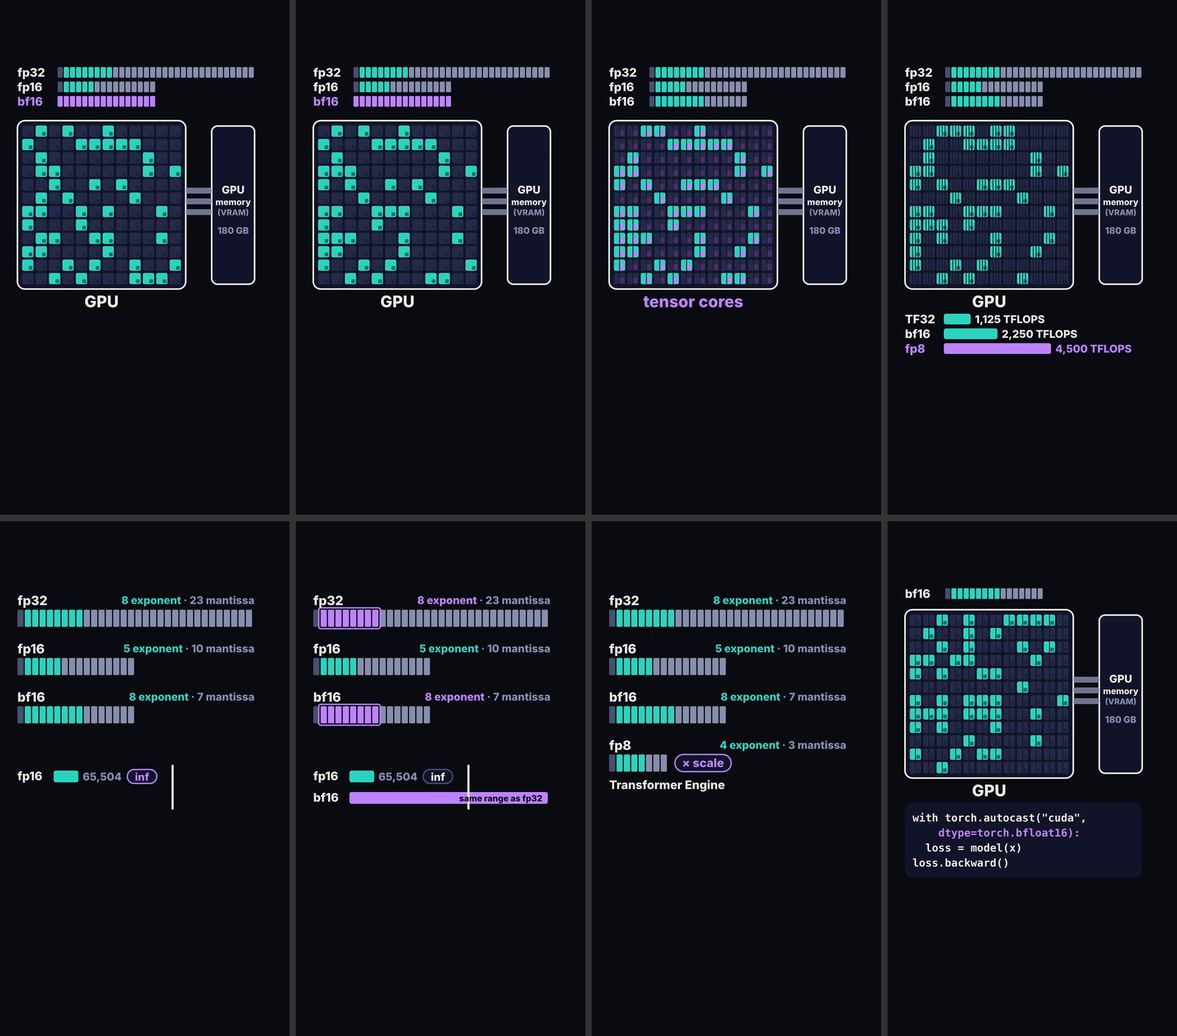
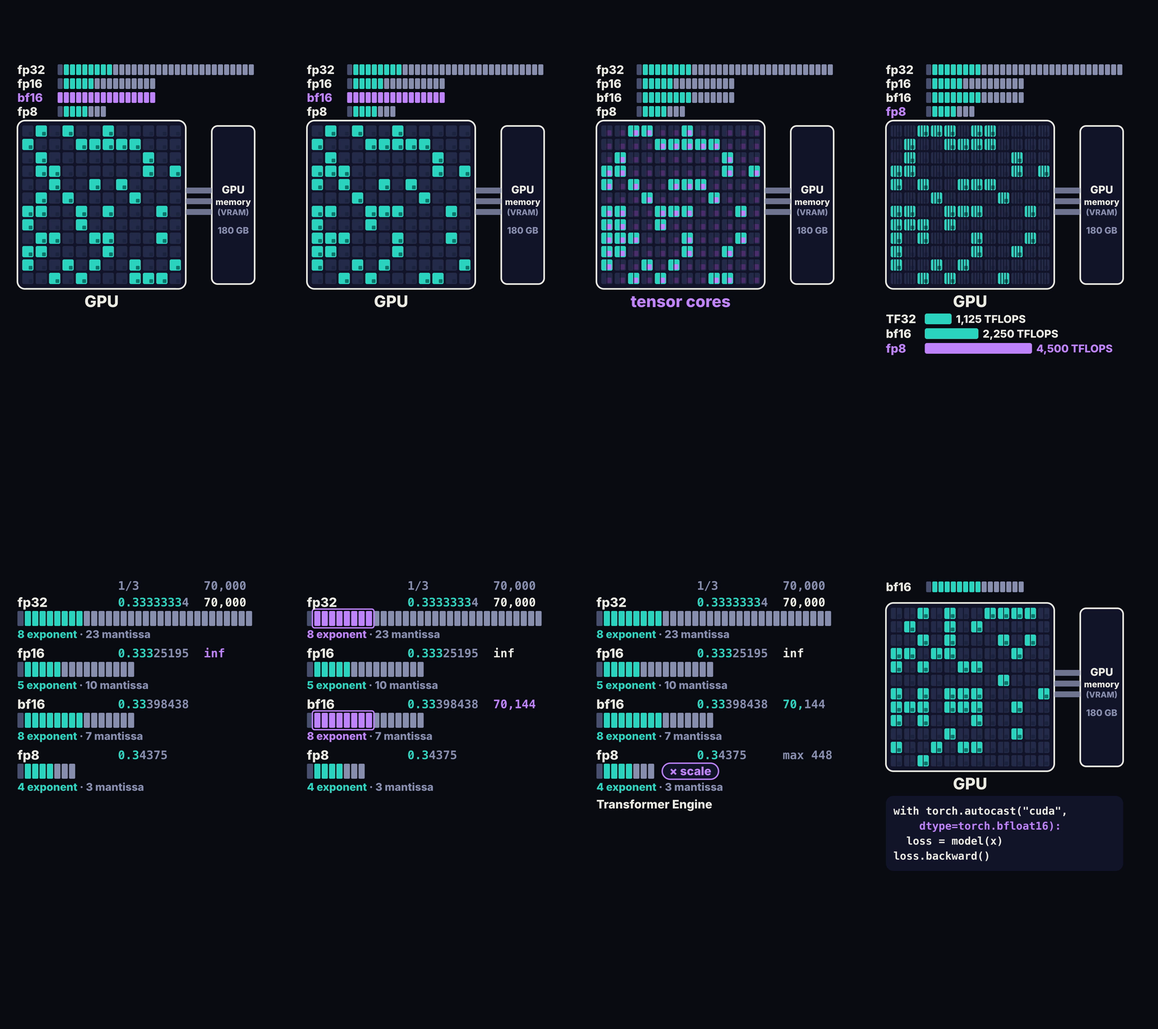
016 ep04: fp8 row from frame 0, value table (1/3, 70,000) replaces range bars

Changed region(s): [[0.0, 0.0, 0.9926, 1.0], [0.0, 0.5625, 0.2171, 0.7812]]

diff --git a/videos/016-understanding-the-gpu/ep04-floating-point-precision/_kit/ep.js b/videos/016-understanding-the-gpu/ep04-floating-point-precision/_kit/ep.js
@@ -7,18 +7,19 @@
 //   bit rows   fp32 / fp16 / bf16 / fp8, one box per bit, to scale (ledger:
 //              1|8|23, 1|5|10, 1|8|7, 1|4|3). Fields: sign --muted, exponent
 //              teal, mantissa --dim. Two layouts, lerped by `view`:
-//                view 0 (chip view)  small rows in the top slot, y 250–398,
-//                                    label left, boxes x 215–950
-//                view 1 (bits view)  big rows over the whole stage, y 268–934,
-//                                    label above each row with its field
-//                                    counts right ("8 exponent · 23 mantissa")
+//                view 0 (chip view)  four small rows, y 240–436
+//                view 1 (bits view)  big rows over the whole stage, y 240–1042:
+//                                    label above each row, field counts under
+//                                    it ("8 exponent · 23 mantissa")
 //              `close` lifts bf16 into the first small slot (the end frame).
 //   split      each core cell divided into 1, 2 or 4 numbers (0, 1, 2).
 //   ladder     the dense peak ladder in the bottom slot, chip view only:
 //              TF32 1,125 / bf16 2,250 / fp8 4,500 TFLOPS, bars to scale.
-//   range      bits view: fp16's range bar (ends at 65,504, then "inf") and
-//              bf16's (the whole width, "same range as fp32"), a marker
-//              sweeping right across both.
+//   values     bits view: what two real numbers become in each format, on each
+//              row's label line. 1/3 (precision): 0.33333334 / 0.33325195 /
+//              0.33398438 / 0.34375, the digits still right in teal. 70,000
+//              (range): 70,000 / inf / 70,144 / "max 448". Computed (round to
+//              nearest even); see storyboard "Facts".
 //   scale tag  bits view: "× scale" clipped onto the fp8 row, "Transformer
 //              Engine" under it.
 //
@@ -28,33 +29,38 @@
 //   o32 o16 ob16 o8  each row's opacity
 //   split 0..2       numbers per cell: 0 = 1, 1 = 2, 2 = 4 (dividers fade in)
 //   ladder 0..1      the ladder's opacity; rungs 0..3 how many bars have grown
-//   nl 0..1          the range bars' opacity; nl16, nlb 0..1 how far each bar has grown
-//   marker -1|0..1   the value marker along the bars (-1 off); 0.125 is fp16's 65,504; "inf" sits at x 475–585
-//   inf 0..1         fp16's "inf" tag
+//   colA 0..1        the 1/3 column (header and all four cells)
+//   big 0..1         the 70,000 column's header and fp32's cell
+//   inf 0..1         fp16's 70,000 cell, "inf"
+//   bigb 0..1        bf16's 70,000 cell, "70,144"
+//   big8 0..1        fp8's 70,000 cell, "max 448"
 //   same 0..1        outlines on fp32's and bf16's exponent fields
 //   scale 0..1       the fp8 scale tag
 // Hero names added (the chip's own still work: tc, pipe, chip, ...):
-//   "row:F"  a whole bit row      "exp:F"  its exponent field (+ fp32's when `same`, + bf16's bar)
-//   "man:F"  its mantissa field   "rung:F" a ladder rung        "inf"  fp16's overflow tag
+//   "row:F"  a whole bit row      "exp:F"  its exponent field (+ fp32's when `same`, + its 70,000 cell)
+//   "man:F"  its mantissa field (+ its 1/3 cell)                 "inf"  fp16's 70,000 cell
+//   "rung:F" a ladder rung (+ row F's label)
 //   "scale"  the fp8 scale tag    "code"   nothing here: the code card's own `lit` line is the hero
 (function () {
   const SC = window.SC, { PAL, lerp, node, label, show, clamp01 } = SC;
 
   Object.assign(SC.REST, {
     cpu: 0, queueO: 0, strip: 0,                  // the series CPU, queue and time strip: not in ep 4
-    view: 0, close: 0, o32: 1, o16: 1, ob16: 1, o8: 0, split: 0,
-    ladder: 0, rungs: 0, nl: 0, nl16: 0, nlb: 0, marker: -1, inf: 0, same: 0, scale: 0,
+    view: 0, close: 0, o32: 1, o16: 1, ob16: 1, o8: 1, split: 0,
+    ladder: 0, rungs: 0, colA: 0, big: 0, inf: 0, bigb: 0, big8: 0, same: 0, scale: 0,
   });
 
   const FMT = {                                   // ledger bit layouts: sign | exponent | mantissa
-    fp32: { f: [1, 8, 23], o: "o32", small: 250, big: 330 },
-    fp16: { f: [1, 5, 10], o: "o16", small: 304, big: 510 },
-    bf16: { f: [1, 8, 7], o: "ob16", small: 358, big: 690 },
-    fp8: { f: [1, 4, 3], o: "o8", small: 412, big: 870 },
+    // small/big: the boxes' top in each view. a/b: the 1/3 and 70,000 cells as [right digits, the rest].
+    fp32: { f: [1, 8, 23], o: "o32", small: 240, big: 360, a: ["0.3333333", "4"], b: ["70,000", ""], ob: "big" },
+    fp16: { f: [1, 5, 10], o: "o16", small: 292, big: 550, a: ["0.333", "25195"], b: ["", "inf"], ob: "inf" },
+    bf16: { f: [1, 8, 7], o: "ob16", small: 344, big: 740, a: ["0.33", "398438"], b: ["70,", "144"], ob: "bigb" },
+    fp8: { f: [1, 4, 3], o: "o8", small: 396, big: 930, a: ["0.3", "4375"], b: ["", "max 448"], ob: "big8" },
   };
   const NAMES = Object.keys(FMT);
   const SMALL = { x0: 215, pitch: 23, w: 19, h: 40, lab: 44 };
-  const BIG = { x0: 65, pitch: 27.5, w: 23, h: 64, lab: 48, spec: 40 };
+  const BIG = { x0: 65, pitch: 27.5, w: 23, h: 56, lab: 48, spec: 40, val: 44 };
+  const COL = { a: 440, b: 760, head: 240 };     // value columns (bits view): x of each, header top
   const CLOSE_Y = 250;                            // bf16's small slot in the end frame
   const LIFT = 120;                               // the chip layer's lift in the end frame
   const FIELD = [PAL.muted, PAL.data, PAL.dim];   // sign, exponent, mantissa
@@ -62,8 +68,6 @@
   // Ladder (chip view, bottom slot): bars to scale, 4,500 = 400 px.
   const LAD = { x: 210, max: 400, top: 1170, pitch: 55, h: 40,
                 rungs: [["TF32", 1125, "1,125"], ["bf16", 2250, "2,250"], ["fp8", 4500, "4,500"]] };
-  // Range bars (bits view): fp16 then bf16, x 200–940; 65,504 sits at 0.125 of a log scale to fp32's max.
-  const NL = { x0: 200, x1: 940, y16: 930, yb: 1010, h: 44, at16: 0.125 };
 
   function mount(root) {
     // the chip in its own layer: faded by `view`, lifted by `close`
@@ -97,7 +101,7 @@
       const field = (i) => (i < s ? 0 : i < s + e ? 1 : 2);
       const lab = label(root, name, { size: SMALL.lab });
       const spec = document.createElement("div");
-      spec.style.cssText = `position:absolute;left:${BIG.x0}px;width:${885}px;text-align:right;white-space:nowrap;` +
+      spec.style.cssText = `position:absolute;left:${BIG.x0}px;white-space:nowrap;` +
         `font-size:${BIG.spec}px;line-height:${Math.round(BIG.spec * 1.15)}px;`;
       const specE = document.createElement("span"), dot = document.createElement("span"), specM = document.createElement("span");
       specE.textContent = `${e} ${FIELD_NAME[1]}`; dot.textContent = " · "; specM.textContent = `${m} ${FIELD_NAME[2]}`;
@@ -105,7 +109,15 @@
       spec.appendChild(specE); spec.appendChild(dot); spec.appendChild(specM);
       root.appendChild(spec);
       const outline = node("rect", { rx: 8, fill: "none", "stroke-width": 5 }, svg);
-      rows[name] = { g, boxes, field, lab, spec, specE, specM, outline, n, s, e };
+      const cell = (x, [ok, rest]) => {             // monospace from the script (the CSS-class trap)
+        const el = label(root, "", { left: x, size: BIG.val });
+        const a = document.createElement("span"), b = document.createElement("span");
+        a.textContent = ok; b.textContent = rest; el.appendChild(a); el.appendChild(b);
+        [el, a, b].forEach((n) => { n.style.fontFamily = "monospace"; n.style.fontWeight = "700"; });
+        return { el, ok: a, rest: b };
+      };
+      const ca = cell(COL.a, FMT[name].a), cb = cell(COL.b, FMT[name].b);
+      rows[name] = { g, boxes, field, lab, spec, specE, specM, outline, n, s, e, ca, cb };
     });
 
     // ladder
@@ -118,27 +130,17 @@
       return { bar, lab, num, w: (LAD.max * v) / 4500 };
     });
 
-    // range bars
-    const nlG = node("g", {}, svg);
-    const bar16 = node("rect", { x: NL.x0, y: NL.y16, width: 0, height: NL.h, rx: 8, fill: PAL.data }, nlG);
-    const barB = node("rect", { x: NL.x0, y: NL.yb, width: 0, height: NL.h, rx: 8, fill: PAL.data }, nlG);
-    const lab16 = label(root, "fp16", { left: 65, top: NL.y16 - 5, size: 44 });
-    const labB = label(root, "bf16", { left: 65, top: NL.yb - 5, size: 44 });
-    const max16 = label(root, "65,504", { left: NL.x0 + NL.at16 * (NL.x1 - NL.x0) + 16, top: NL.y16, size: 40, color: PAL.dim });
-    // left-aligned so the marker (at 0.6 of the span) never crosses it
-    const sameLab = label(root, "same range as fp32", { left: NL.x0 + 16, top: NL.yb + 5, size: 32, color: PAL.bg });
-    const infG = node("g", {}, svg);
-    const infBox = node("rect", { x: 475, y: NL.y16 - 4, width: 110, height: NL.h + 8, rx: 26, fill: PAL.panel, "stroke-width": 5 }, infG);
-    const infLab = label(root, "inf", { left: 475, top: NL.y16 + 1, size: 40, width: 110 });
-    const markG = node("g", {}, svg);
-    const mark = node("rect", { x: 0, y: NL.y16 - 22, width: 8, height: NL.yb + NL.h - NL.y16 + 44, rx: 4, fill: PAL.ink }, markG);
+    // value column headers
+    const headA = label(root, "1/3", { left: COL.a, top: COL.head, size: BIG.val, color: PAL.dim });
+    const headB = label(root, "70,000", { left: COL.b, top: COL.head, size: BIG.val, color: PAL.dim });
+    [headA, headB].forEach((n) => { n.style.fontFamily = "monospace"; n.style.fontWeight = "700"; });
 
     // fp8 scale tag
     const tagG = node("g", {}, svg);
     const fp8End = BIG.x0 + 7 * BIG.pitch + BIG.w;
-    const tagBox = node("rect", { x: fp8End + 30, y: FMT.fp8.big, width: 210, height: BIG.h, rx: 32, fill: PAL.panel, "stroke-width": 5 }, tagG);
-    const tagLab = label(root, "× scale", { left: fp8End + 30, top: FMT.fp8.big + 6, size: 44, width: 210 });
-    const teLab = label(root, "Transformer Engine", { left: BIG.x0, top: FMT.fp8.big + BIG.h + 24, size: 44 });
+    const tagBox = node("rect", { x: fp8End + 30, y: FMT.fp8.big - 2, width: 210, height: BIG.h + 4, rx: 30, fill: PAL.panel, "stroke-width": 5 }, tagG);
+    const tagLab = label(root, "× scale", { left: fp8End + 30, top: FMT.fp8.big + 2, size: 44, width: 210 });
+    const teLab = label(root, "Transformer Engine", { left: BIG.x0, top: FMT.fp8.big + BIG.h + 70, size: 44 });
 
     function drawRows(S) {
       const v = clamp01(S.view), c = clamp01(S.close), hero = S.hero || "";
@@ -148,7 +150,7 @@
         const y = lerp(smallY, FMT[name].big, v), h = lerp(SMALL.h, BIG.h, v);
         const x0 = lerp(SMALL.x0, BIG.x0, v), p = lerp(SMALL.pitch, BIG.pitch, v), w = lerp(SMALL.w, BIG.w, v);
         const heroRow = hero === `row:${name}`, heroE = hero === `exp:${name}` || (hero === "exp:bf16" && name === "fp32" && S.same > 0.5);
-        const heroM = hero === `man:${name}`;
+        const heroM = hero === `man:${name}`, heroL = heroRow || hero === `rung:${name}`;
         show(r.g, o);
         r.boxes.forEach((b, i) => {
           b.setAttribute("x", (x0 + i * p).toFixed(1)); b.setAttribute("y", y.toFixed(1));
@@ -160,10 +162,10 @@
         const ls = lerp(SMALL.lab, BIG.lab, v);
         r.lab.style.fontSize = `${ls.toFixed(1)}px`; r.lab.style.lineHeight = `${Math.round(ls * 1.15)}px`;
         r.lab.style.left = "65px";
-        r.lab.style.top = `${lerp(y - 5, y - 62, v).toFixed(1)}px`;
-        r.lab.style.color = heroRow ? PAL.hero : PAL.ink;
+        r.lab.style.top = `${lerp(y - 5, y - 60, v).toFixed(1)}px`;
+        r.lab.style.color = heroL ? PAL.hero : PAL.ink;
         show(r.lab, o);
-        r.spec.style.top = `${(y - 58).toFixed(1)}px`;
+        r.spec.style.top = `${(y + BIG.h + 8).toFixed(1)}px`;
         show(r.spec, o * clamp01((v - 0.5) * 2));
         r.specE.style.color = heroE ? PAL.hero : PAL.data;
         r.specM.style.color = heroM ? PAL.hero : PAL.dim;
@@ -173,7 +175,18 @@
         r.outline.setAttribute("width", ((r.e - 1) * p + w + 14).toFixed(1)); r.outline.setAttribute("height", (h + 14).toFixed(1));
         r.outline.setAttribute("stroke", heroE ? PAL.hero : PAL.data);
         show(r.outline, so);
+        // value cells, on the label line (bits view only)
+        const top = `${(y - 60 + 2).toFixed(1)}px`;
+        r.ca.el.style.top = r.cb.el.style.top = top;
+        show(r.ca.el, o * v * clamp01(S.colA));
+        show(r.cb.el, o * v * clamp01(S[FMT[name].ob]));
+        const hotA = heroM, hotB = (name === "fp16" && hero === "inf") || heroE && name !== "fp32";
+        r.ca.ok.style.color = hotA ? PAL.hero : PAL.data; r.ca.rest.style.color = hotA ? PAL.hero : PAL.dim;
+        r.cb.ok.style.color = hotB ? PAL.hero : PAL.data;
+        r.cb.rest.style.color = hotB ? PAL.hero : name === "fp16" ? PAL.ink : PAL.dim;
+        if (name === "fp32") r.cb.ok.style.color = PAL.ink;
       });
+      show(headA, v * clamp01(S.colA)); show(headB, v * clamp01(S.big));
     }
 
     function drawLadder(S) {
@@ -187,22 +200,6 @@
         r.num.style.left = `${(LAD.x + w + 16).toFixed(1)}px`;
         show(r.lab, o * clamp01(u * 4)); show(r.num, o * clamp01((u - 0.6) * 2.5));
       });
-    }
-
-    function drawRange(S) {
-      const o = clamp01(S.nl) * clamp01(S.view), hero = S.hero || "", span = NL.x1 - NL.x0;
-      show(nlG, o); show(lab16, o); show(labB, o * clamp01(S.nlb * 4));
-      bar16.setAttribute("width", (span * NL.at16 * clamp01(S.nl16)).toFixed(1));
-      barB.setAttribute("width", (span * clamp01(S.nlb)).toFixed(1));
-      barB.setAttribute("fill", hero === "exp:bf16" ? PAL.hero : PAL.data);
-      show(max16, o * clamp01((S.nl16 - 0.6) * 2.5));
-      show(sameLab, o * clamp01((S.nlb - 0.7) * 3.3));
-      const io = o * clamp01(S.inf), hot = hero === "inf";
-      show(infG, io); show(infLab, io);
-      infBox.setAttribute("stroke", hot ? PAL.hero : PAL.muted); infLab.style.color = hot ? PAL.hero : PAL.ink;
-      const m = S.marker;
-      show(markG, m >= 0 ? o : 0);
-      mark.setAttribute("x", (NL.x0 + Math.max(0, m) * span - 4).toFixed(1));
     }
 
     function drawTag(S) {
@@ -224,9 +221,9 @@
       layer.style.visibility = v < 0.999 ? "visible" : "hidden";
       layer.style.transform = `translateY(${(-LIFT * c).toFixed(1)}px)`;
       show(half, clamp01(S.split)); show(quarter, clamp01(S.split - 1));
-      drawRows(S); drawLadder(S); drawRange(S); drawTag(S);
+      drawRows(S); drawLadder(S); drawTag(S);
     }
-    return Object.assign({}, kit, { draw, rows, rungs, layer, FMT, BIG, SMALL, NL, LAD });
+    return Object.assign({}, kit, { draw, rows, rungs, layer, headA, headB, tagLab, teLab, FMT, BIG, SMALL, COL, LAD });
   }
 
   // A beat's state between two seam states: numbers lerp, the rest switch at u ≥ 0.5 (ep 1's mix).
@@ -239,5 +236,5 @@
     return out;
   }
 
-  window.EP = { mount, mix, FMT, SMALL, BIG, NL, LAD, LIFT };
+  window.EP = { mount, mix, FMT, SMALL, BIG, COL, LAD, LIFT };
 })();

diff --git a/videos/016-understanding-the-gpu/ep04-floating-point-precision/_kit/seam.js b/videos/016-understanding-the-gpu/ep04-floating-point-precision/_kit/seam.js
@@ -7,21 +7,21 @@
   const SC = window.SC, run = SC.D.run;
   const card = { o: 1, lines: SC.D.code.autocast, typed: Infinity, lit: "bf16", cursor: 0, cy: 1190 + window.EP.LIFT };
   SC.SEAM = {
-    // frame 0: already working; chip view, fp32 / fp16 / bf16 small in the top slot, the grid shimmering, bf16 the hero
+    // frame 0: already working; chip view, fp32 / fp16 / bf16 / fp8 small in the top slot, the grid shimmering, bf16 the hero
     0: { lit: run.mfu, shimmer: 1, hero: "row:bf16" },
     // "half the bits of fp32": unchanged, bf16 still the hero
     1: { lit: run.mfu, shimmer: 1, hero: "row:bf16" },
     // "multiply-adds per tensor core cycle": every cell holds 2 numbers, tensor cores emphasised and the hero
     2: { lit: run.mfu, shimmer: 1, split: 1, tc: 1, hero: "tc", title: "tensor cores" },
-    // "fp8 doubles that": 4 numbers a cell, the ladder full, the fp8 rung the hero
+    // "fp8 doubles that": 4 numbers a cell, the ladder full, the fp8 rung (and fp8's row label) the hero
     3: { lit: run.mfu, shimmer: 1, split: 2, ladder: 1, rungs: 3, hero: "rung:fp8" },
-    // "will overflow": bits view (chip faded), fp16's bar to 65,504, the marker past it, "inf" the hero
-    4: { lit: run.mfu, shimmer: 1, split: 1, view: 1, nl: 1, nl16: 1, marker: 0.6, inf: 1, hero: "inf" },
-    // "training stays stable": bf16's bar the whole width, both exponent fields outlined, bf16's exponent the hero
-    5: { lit: run.mfu, shimmer: 1, split: 1, view: 1, nl: 1, nl16: 1, nlb: 1, marker: 0.6, inf: 1, same: 1, hero: "exp:bf16" },
-    // "Transformer Engine": range bars gone, the fp8 row in, its scale tag the hero
-    6: { lit: run.mfu, shimmer: 1, split: 1, view: 1, o8: 1, scale: 1, hero: "scale" },
+    // "will overflow": bits view (chip faded), the 1/3 column, 70,000 in fp32 and "inf" in fp16; "inf" the hero
+    4: { lit: run.mfu, shimmer: 1, split: 1, view: 1, colA: 1, big: 1, inf: 1, hero: "inf" },
+    // "training stays stable": bf16's 70,144 in, both exponent fields outlined, bf16's exponent (+ its 70,144) the hero
+    5: { lit: run.mfu, shimmer: 1, split: 1, view: 1, colA: 1, big: 1, inf: 1, bigb: 1, same: 1, hero: "exp:bf16" },
+    // "Transformer Engine": outlines off, fp8's "max 448" and the scale tag in; the tag the hero
+    6: { lit: run.mfu, shimmer: 1, split: 1, view: 1, colA: 1, big: 1, inf: 1, bigb: 1, big8: 1, scale: 1, hero: "scale" },
     // the end: chip view lifted, bf16 alone in the top slot, 2 numbers a cell, the autocast card, dtype line lit
-    7: { lit: run.mfu, shimmer: 1, split: 1, close: 1, o32: 0, o16: 0, hero: "code", code: card },
+    7: { lit: run.mfu, shimmer: 1, split: 1, close: 1, o32: 0, o16: 0, o8: 0, hero: "code", code: card },
   };
 })();

diff --git a/videos/016-understanding-the-gpu/ep04-floating-point-precision/storyboard.md b/videos/016-understanding-the-gpu/ep04-floating-point-precision/storyboard.md
@@ -47,17 +47,22 @@ it; bf16 wins because it halves the bits without shrinking the range.
   fp8 row's spec reads "4 exponent · 3 mantissa" and the mantissa field is
   the hero on "three bits", so the frame states the right number.
 - The 4.7 s pause before "In PyTorch" is cut.
+- v3 (after the first cut, Chris: "we mention fp8 early but dont show it",
+  "not clear the difference ... what a number looks like"): fp8 is a fourth
+  row from frame 0, and the bits view is a table of what two real numbers
+  become in each format: 1/3 (precision; the digits still right in teal)
+  and 70,000 (range; fp16 → inf). The range bars and marker are gone.
 
 ## VO and visual (built from what was said)
 
 | beat | VO | visual |
 |---|---|---|
-| 01_hook | bf16 makes training faster because each number is half the bits of fp32. | Frame 0 already working: chip view. fp32 / fp16 / bf16 small in the top slot, the grid shimmering, bf16's row magenta. On "half the bits" a dashed ghost of the missing 16 boxes trails bf16's row to fp32's width, and fades by the cut. |
+| 01_hook | bf16 makes training faster because each number is half the bits of fp32. | Frame 0 already working: chip view. fp32 / fp16 / bf16 / fp8 small in the top slot, the grid shimmering, bf16's row magenta. On "half the bits" a dashed ghost of the missing 16 boxes trails bf16's row to fp32's width, and fades by the cut. |
 | 02_bits | Fewer bits means more numbers per memory read, and more multiply-adds per tensor core cycle. | "memory read": the pipe is the hero, number tiles stream from GPU memory into the grid (beat-only prop, gone by the cut); "more numbers": each cell splits in two (`split` 0 → 1). "tensor core": tensor cores grow and are the hero, title "tensor cores". |
-| 03_peak | A B200 peaks near 2,250 teraflops in bf16. fp8 doubles that. | Title back to "GPU", tc back to rest. The ladder grows in the bottom slot: TF32 1,125 and bf16 2,250 on "2,250" (bf16 rung the hero); "fp8 doubles": the fp8 rung grows to 4,500 and is the hero, cells split to four. |
-| 04_fp16 | fp16 is also 16 bits, but it spends them on precision. So anything past 65,504 will overflow. | "fp16": the chip fades and the rows grow into the bits view (fp16's row the hero). "precision": fp16's mantissa the hero. "65,504": fp16's range bar draws to 65,504; the marker sweeps right past it; "overflow": the "inf" tag lands, the hero. |
-| 05_bf16 | bf16 keeps fp32's 8 exponent bits. Same range, less precision, and training stays stable. | "8 exponent bits": outlines on fp32's and bf16's exponent fields, bf16's exponent the hero (with fp32's, one group). "same range": bf16's bar grows the whole width under the marker. "less precision": bf16's mantissa the hero. "stable": back to bf16's exponent. |
-| 06_fp8 | fp8 keeps just 3 bits, so training in it needs a scaling library like NVIDIA's Transformer Engine. | Range bars fade; the fp8 row grows in under bf16. "three bits": fp8's mantissa the hero. "scaling": the "× scale" tag clips on, "Transformer Engine" under it, the tag the hero. |
+| 03_peak | A B200 peaks near 2,250 teraflops in bf16. fp8 doubles that. | Title back to "GPU", tc back to rest. The ladder grows in the bottom slot: TF32 1,125 and bf16 2,250 on "2,250" (bf16 rung the hero); "fp8 doubles": the fp8 rung grows to 4,500 and is the hero (with fp8's row label), cells split to four. |
+| 04_fp16 | fp16 is also 16 bits, but it spends them on precision. So anything past 65,504 will overflow. | "fp16": the chip fades and the four rows grow into the bits view (fp16's row the hero). "precision": the 1/3 column writes in (0.33333334 / 0.33325195 / 0.33398438 / 0.34375, right digits teal); fp16's mantissa and its 1/3 cell the hero. "65,504": the 70,000 column header and fp32's 70,000; "overflow": fp16's cell lands "inf", the hero. |
+| 05_bf16 | bf16 keeps fp32's 8 exponent bits. Same range, less precision, and training stays stable. | "8 exponent bits": outlines on fp32's and bf16's exponent fields, bf16's exponent the hero (with fp32's, one group). "same range": bf16's 70,000 cell writes in, 70,144 (part of the hero group). "less precision": bf16's mantissa and its 0.33398438 the hero. "stable": back to bf16's exponent. |
+| 06_fp8 | fp8 keeps just 3 bits, so training in it needs a scaling library like NVIDIA's Transformer Engine. | Outlines off; fp8's row the hero. "three bits": fp8's mantissa and its 0.34375 the hero. "scaling": fp8's 70,000 cell "max 448", then the "× scale" tag clips on, the hero; "Transformer Engine" under it on "Transformer". |
 | 07_close | In PyTorch, wrap your forward pass in autocast with bf16. You get faster math without the overflow. | "PyTorch": back to chip view, lifted; fp32 / fp16 / fp8 fade, bf16 slides into the top slot; the autocast card types in under the chip. "bf16": `dtype=torch.bfloat16` lit (the hero). Still from ~0.5 s before the end. |
 
 ## Final beats (`beats.json`; `words.json` has every word's master time)
@@ -82,33 +87,45 @@ shimmer on (`SC.clock` = master seconds). Fields named as in `_kit/ep.js`.
 
 | cut | on screen |
 |---|---|
-| 0 (frame 0) | chip view: fp32 / fp16 / bf16 small in the top slot, chip + GPU memory, title "GPU"; hero `row:bf16` |
+| 0 (frame 0) | chip view: fp32 / fp16 / bf16 / fp8 small in the top slot, chip + GPU memory, title "GPU"; hero `row:bf16` |
 | 1→2 | same as 0 |
 | 2→3 | `split` 1 (2 numbers a cell), `tc` 1, title "tensor cores"; hero `tc` |
 | 3→4 | `split` 2, title "GPU", tc 0; ladder full (`rungs` 3); hero `rung:fp8` |
-| 4→5 | bits view (`view` 1, chip hidden; `split` 1 under it); fp16's range bar full, marker at 0.6, "inf" tag; hero `inf` |
-| 5→6 | + bf16's range bar full, `same` 1 (exponent outlines); hero `exp:bf16` |
-| 6→7 | bits view, range bars off (`nl` 0, marker −1, inf 0, same 0), fp8 row in, scale tag; hero `scale` |
-| end | chip view lifted 120 px (`close` 1), bf16 alone in the top slot, `split` 1, autocast card full at cy 1310 (layer coords; 1190 on screen), `lit` "bf16"; hero `code` |
+| 4→5 | bits view (`view` 1, chip hidden; `split` 1 under it); `colA` 1 (1/3 column), `big` 1 (70,000 header + fp32), `inf` 1; hero `inf` |
+| 5→6 | + `bigb` 1 (70,144), `same` 1 (exponent outlines); hero `exp:bf16` |
+| 6→7 | + `big8` 1 ("max 448"), `scale` 1, `same` 0; hero `scale` |
+| end | chip view lifted 120 px (`close` 1), o32 / o16 / o8 0, bf16 alone in the top slot, `split` 1, autocast card full at cy 1310 (layer coords; 1190 on screen), `lit` "bf16"; hero `code` |
 
 Captions: `assemble.py --captions-anchor bottom` for the whole Short (the
 card ends at y 1330), every caption one line.
 
 ## Layout
 
-- Chip view: rows y 250–398 (labels x 65, boxes x 215–950); chip y
+- Chip view: four rows y 240–436 (labels x 65, boxes x 215–950); chip y
   450–1078 with GPU memory right; title y 1090; ladder y 1170–1325.
-- Bits view: rows full width (x 65–940), labels above, field counts
-  right; fp32 330, fp16 510, bf16 690, fp8 870; range bars y 930 and
-  1010; scale tag beside the fp8 row, "Transformer Engine" at y 958.
+- Bits view: rows full width (x 65–940); label line above each row holds
+  the name and its two value cells (1/3 at x 440, 70,000 at x 760,
+  monospace 44 px, headers at y 240); field counts under the boxes; boxes
+  at fp32 360, fp16 550, bf16 740, fp8 930; scale tag beside fp8's boxes,
+  "Transformer Engine" at y 1056.
 - End: the chip layer lifted 120 px (chip 330–958, title 970), bf16's row
   at y 250, the code card y 1050–1330.
 - One magenta hero at a time, in order: bf16 row → pipe → tensor cores →
-  bf16 rung → fp8 rung → fp16 row → fp16 mantissa → inf → bf16 exponent
-  (+ fp32's) → bf16 mantissa → bf16 exponent → fp8 mantissa → scale tag →
+  bf16 rung → fp8 rung → fp16 row → fp16 mantissa (+ 1/3 cell) → inf →
+  bf16 row → bf16 exponent (+ fp32's, + 70,144) → bf16 mantissa (+ 1/3
+  cell) → bf16 exponent → fp8 row → fp8 mantissa (+ 1/3 cell) → scale tag →
   `dtype=torch.bfloat16`.
 
 ## Facts to keep straight (notes, not VO)
+
+- Example values, computed with numpy (fp32, fp16) and round-to-nearest-
+  even by hand (bf16, OCP E4M3): 1/3 → 0.33333334 / 0.33325195 /
+  0.33398438 / 0.34375; 70,000 → 70,000 / inf / 70,144 / out of range
+  (E4M3's max is 448; it has no inf). Script: the session scratchpad
+  `fmt.py`, rerun before changing a value.
+- fp8 here is E4M3 (4 exponent, 3 mantissa). The other fp8, E5M2, keeps
+  2 mantissa bits; Transformer Engine's default recipe uses E4M3 forward
+  and E5M2 for gradients.
 
 - B200 numbers: NVIDIA HGX B200 page (sparse ÷ 2 ÷ 8). TF32 is how fp32
   matmuls run on tensor cores; plain fp32 is slower still.
